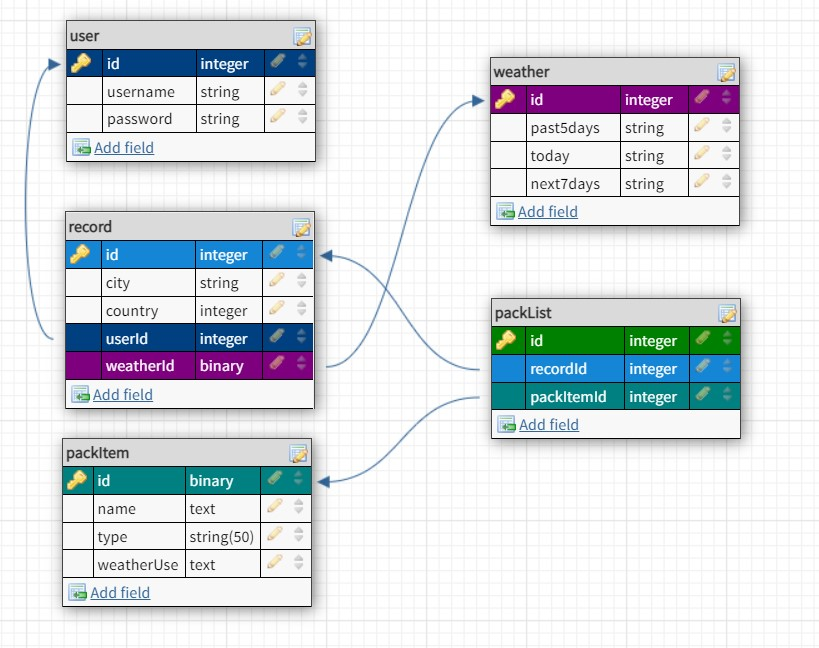
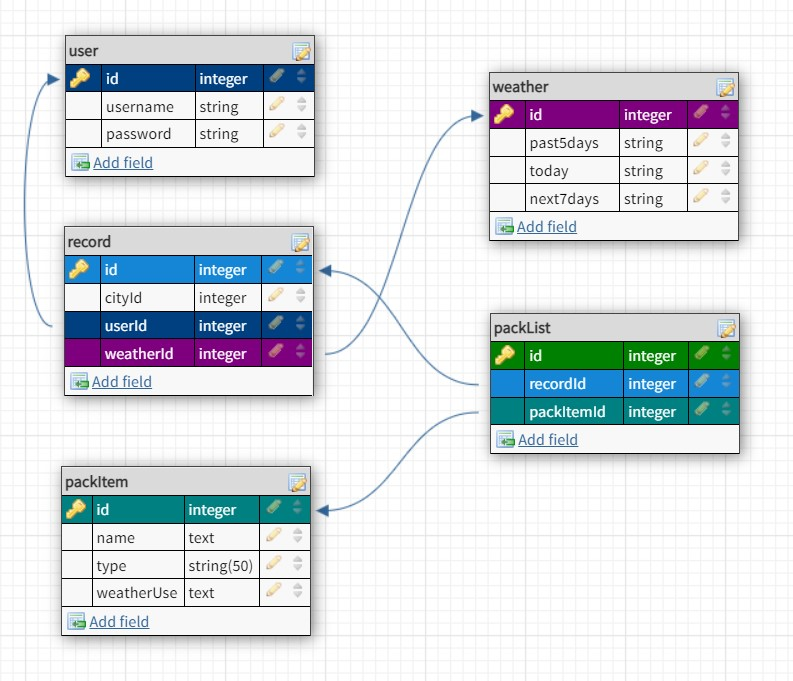
Updated READme and ERD with instructor feedback during project pitch.

Changed region(s): [[0.0303, 0.3086, 0.9685, 0.9568], [0.4842, 0.0617, 0.9685, 0.4012], [0.0303, 0.0, 0.4237, 0.2778]]

diff --git a/README.md b/README.md
@@ -28,7 +28,7 @@ See 'Database ERD.jpg'
  * POST '/users' - Create user.
  * POST '/users/login' - Login an existing user.
  * GET '/users/history' - Retrieve a logged in user's saved packlists.
- * GET '/search' - Retrieve weather information and packlist items for the searched city.
+ * GET '/users/search' - Retrieve weather information and packlist items for the searched city. NOTE: This only works if a user is logged in.
     - Specifically, the following will be returned for use:
         + City
         + Country
@@ -56,11 +56,11 @@ See 'Database ERD.jpg'
     - [] add eventListeners for saving and clearing search results
     - [] implement axios routing for sign up, login, and profile
 * Backend - JS (Jake)
-    - [ ] Initialize Node
-    - [ ] Install pg, sequelize, express, rowdy-logger, axios
-    - [ ] Initialize Sequelize
-    - [ ] Edit config
-    - [ ] Add .gitignore
+    - [x] Initialize Node
+    - [x] Install pg, sequelize, express, rowdy-logger, axios
+    - [x] Initialize Sequelize
+    - [x] Edit config
+    - [x] Add .gitignore
     - [ ] Sequelize create db
     - [ ] Sequelize create migrations
         + [ ] Remember to include unique to the username attribute/table column
@@ -83,6 +83,7 @@ See 'Database ERD.jpg'
     - Save status of checkboxes so user may log out and log back in and still have access to the same state of the checkboxes.
 * Ability to add your personal clothes (a database table that is a closet) and say what weather they are meant for.
     - Your packlist will show your personal items as option for your packlist (e.g shoes > 'Nike shoes', jackets > 'blue down jacket').
+* Country drop-down in search dynamically populates based on the city entered.
 
 ## Possible Names
 * TravelTime
